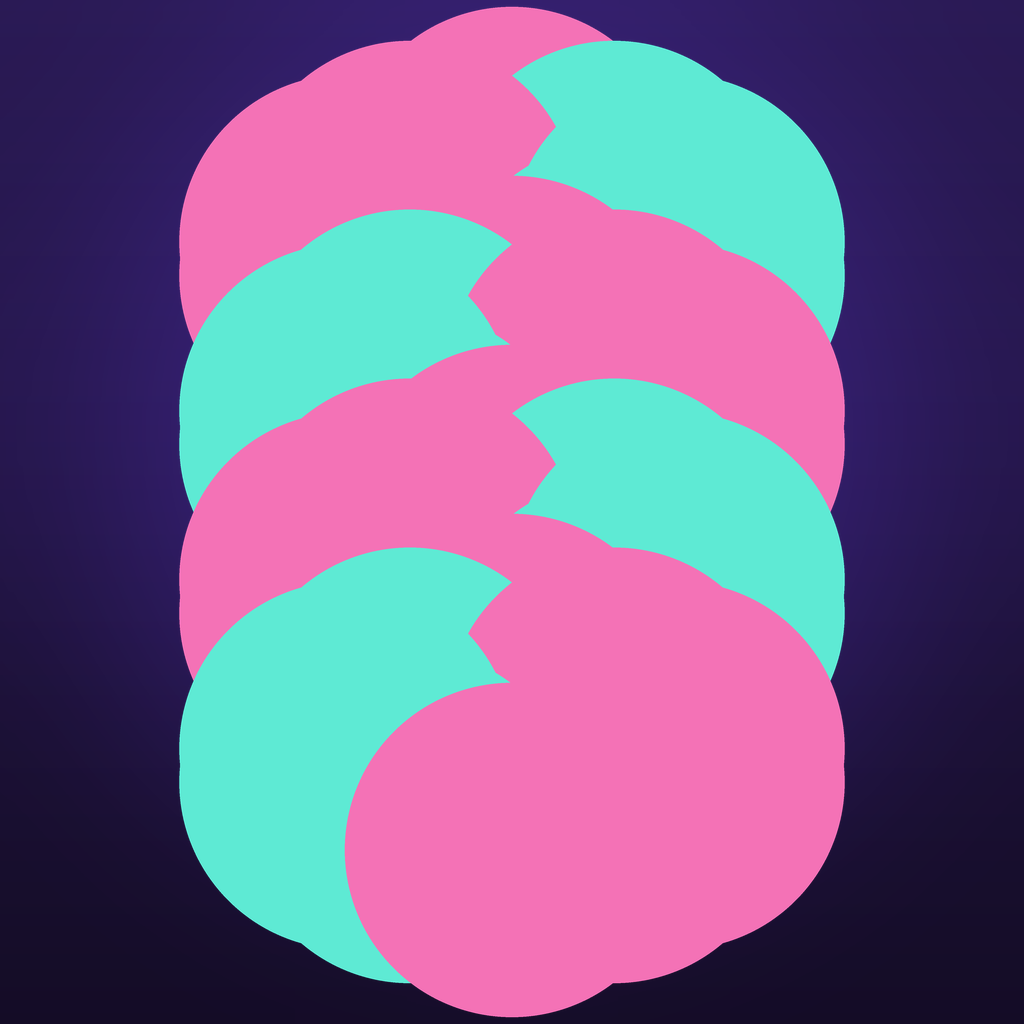
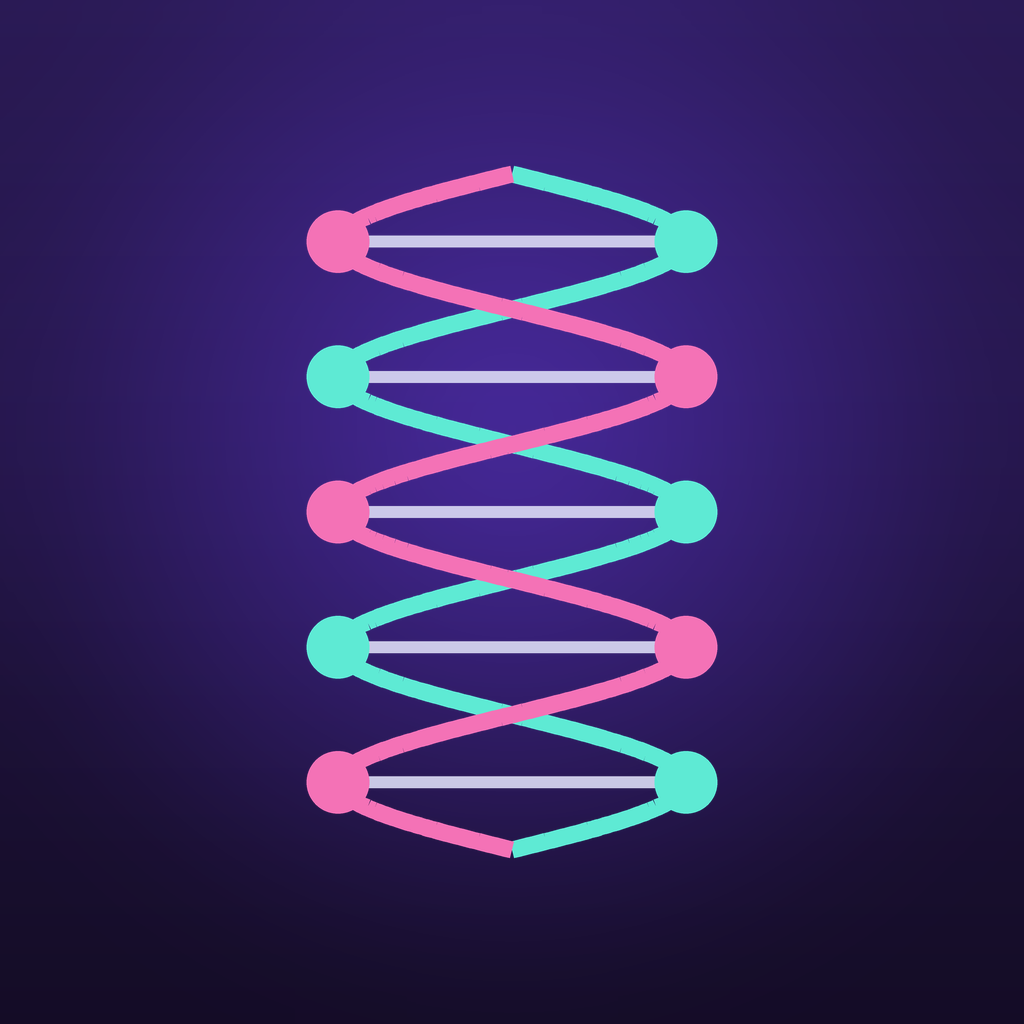
Simge tasarımını düzelt: net DNA çift sarmalı (dot/line ölçek hatası giderildi)

diff --git a/resources/generate_icons.py b/resources/generate_icons.py
@@ -62,17 +62,22 @@ def radial_glow(size, color, center, radius, strength=140):
     return layer
 
 
-def draw_helix(img, cx, cy, height, width, turns=2.0, dot=0.0, line=0.0):
-    """Dikey bir DNA çift sarmalı çizer (yumuşatma için 4x supersample)."""
+def draw_helix(img, cx, cy, height, width, turns=2.5, dot=0.0, line=0.0):
+    """Dikey bir DNA çift sarmalı çizer (yumuşatma için 4x supersample).
+
+    Şeritler ince tutulur, düğümler yalnızca bağ çubuklarının uçlarına
+    konur; böylece blob yerine net bir çift sarmal görünür.
+    """
     s = 4
     w, h = img.size
     canvas = Image.new("RGBA", (w * s, h * s), (0, 0, 0, 0))
     d = ImageDraw.Draw(canvas)
     cx, cy, height, width = cx * s, cy * s, height * s, width * s
-    dot = (dot or max(6, width * 0.12)) * s
-    line = (line or max(4, width * 0.05)) * s
+    # not: width yukarıda s ile çarpıldı; dot/line'ı tekrar çarpma.
+    dot = dot * s if dot else width * 0.09
+    line = line * s if line else width * 0.05
 
-    steps = 240
+    steps = 480
     pts_a, pts_b = [], []
     for i in range(steps + 1):
         t = i / steps
@@ -83,19 +88,22 @@ def draw_helix(img, cx, cy, height, width, turns=2.0, dot=0.0, line=0.0):
         pts_a.append((xa, y))
         pts_b.append((xb, y))
 
-    # Bağ çubukları (rungs)
-    for i in range(0, steps + 1, 12):
-        a, b = pts_a[i], pts_b[i]
-        depth = (math.sin(i / steps * turns * 2 * math.pi) + 1) / 2  # 0..1
-        alpha = round(90 + 120 * depth)
-        d.line([a, b], fill=RUNG + (alpha,), width=int(line))
+    # Sarmal şeritler (önce çizilir, düğümler üstte kalsın diye)
+    d.line(pts_a, fill=STRAND_A + (255,), width=int(line), joint="curve")
+    d.line(pts_b, fill=STRAND_B + (255,), width=int(line), joint="curve")
 
-    # Sarmal şeritler
-    d.line(pts_a, fill=STRAND_A + (255,), width=int(line * 1.6), joint="curve")
-    d.line(pts_b, fill=STRAND_B + (255,), width=int(line * 1.6), joint="curve")
+    # Bağ çubukları + nükleotit düğümleri: şeritlerin en açıldığı noktalarda
+    # (faz = pi/2 + k*pi). rung_count kadar eşit aralıklı bağ.
+    rung_count = round(turns * 2) + 1
+    bonds = []
+    for r in range(rung_count):
+        t = (0.25 + r * 0.5) / turns
+        if 0 <= t <= 1:
+            bonds.append(round(t * steps))
 
-    # Nükleotit düğümleri
-    for i in range(0, steps + 1, 12):
+    for i in bonds:
+        d.line([pts_a[i], pts_b[i]], fill=RUNG + (230,), width=int(line * 0.7))
+    for i in bonds:
         for (x, y), col in ((pts_a[i], STRAND_A), (pts_b[i], STRAND_B)):
             d.ellipse([x - dot, y - dot, x + dot, y + dot], fill=col + (255,))
 
